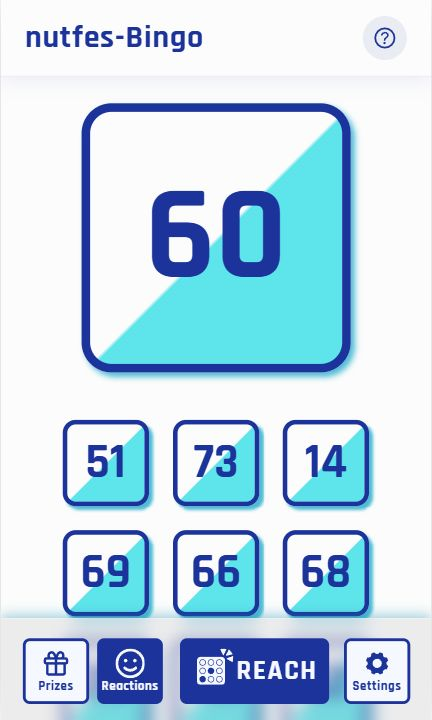
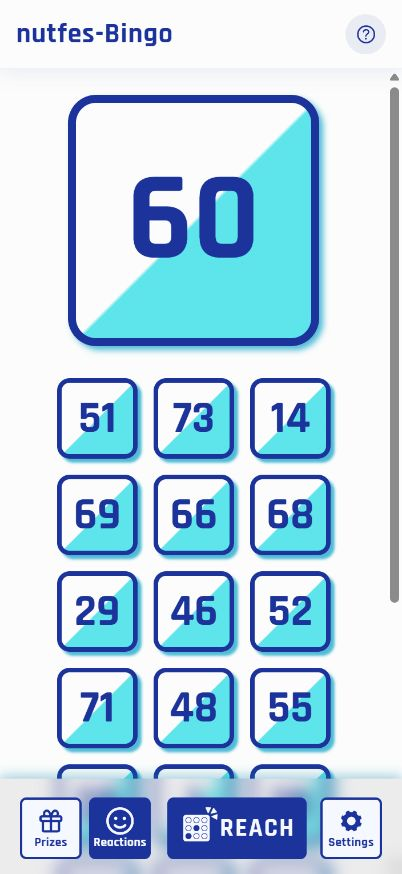
Recapture Bingo and FinanSu screenshots at requested viewport ratios

diff --git a/components/sections/Products/index.tsx b/components/sections/Products/index.tsx
@@ -1,14 +1,16 @@
-import Image from "next/image";
+import Image, { type StaticImageData } from "next/image";
 
 import ArrowIcon from "@/components/common/ArrowIcon";
 import PortfolioSection from "@/components/common/PortfolioSection";
+import finansuScreenshot from "@/public/products/finansu.jpg";
+import bingoScreenshot from "@/public/products/nutfes_bingo.jpg";
 
 type Preview = "desktop" | "mobile";
 
 type Product = {
 	id: string;
 	title: string;
-	image: string;
+	image: string | StaticImageData;
 	imageAlt?: string;
 	preview?: Preview;
 	description: string;
@@ -21,7 +23,7 @@ const products: Product[] = [
 	{
 		id: "nutfes-bingo",
 		title: "nutfes-bingo",
-		image: "/products/nutfes_bingo.jpg",
+		image: bingoScreenshot,
 		preview: "mobile",
 		description: "技大祭のフィナーレを飾る、ビンゴ大会専用のアプリ。",
 		technology: "React / Vite / Cloudflare Workers / Durable Objects / R2",
@@ -31,7 +33,7 @@ const products: Product[] = [
 	{
 		id: "finansu",
 		title: "FinanSu",
-		image: "/products/finansu.jpg",
+		image: finansuScreenshot,
 		preview: "desktop",
 		imageAlt: "FinanSuのログイン画面",
 		description: "技大祭の財務情報を管理する、NUTFes / NUTMEGのWebアプリ。",
@@ -109,16 +111,15 @@ function ProductPreview({ product }: { product: Product }) {
 			<div
 				className={
 					product.preview === "mobile"
-						? "relative aspect-[402/874] w-full max-w-35 overflow-hidden rounded-xl border border-line bg-white sm:max-w-36"
-						: "relative aspect-video w-full overflow-hidden rounded-xl border border-line bg-white"
+						? "w-full max-w-35 overflow-hidden rounded-xl border border-line sm:max-w-36"
+						: "w-full overflow-hidden rounded-xl border border-line"
 				}
 			>
 				<Image
 					src={product.image}
 					alt={alt}
-					fill
 					sizes={product.preview === "mobile" ? "144px" : "(min-width: 1280px) 504px, (min-width: 768px) 42vw, 90vw"}
-					className="object-contain"
+					className="h-auto w-full"
 				/>
 			</div>
 		</div>
